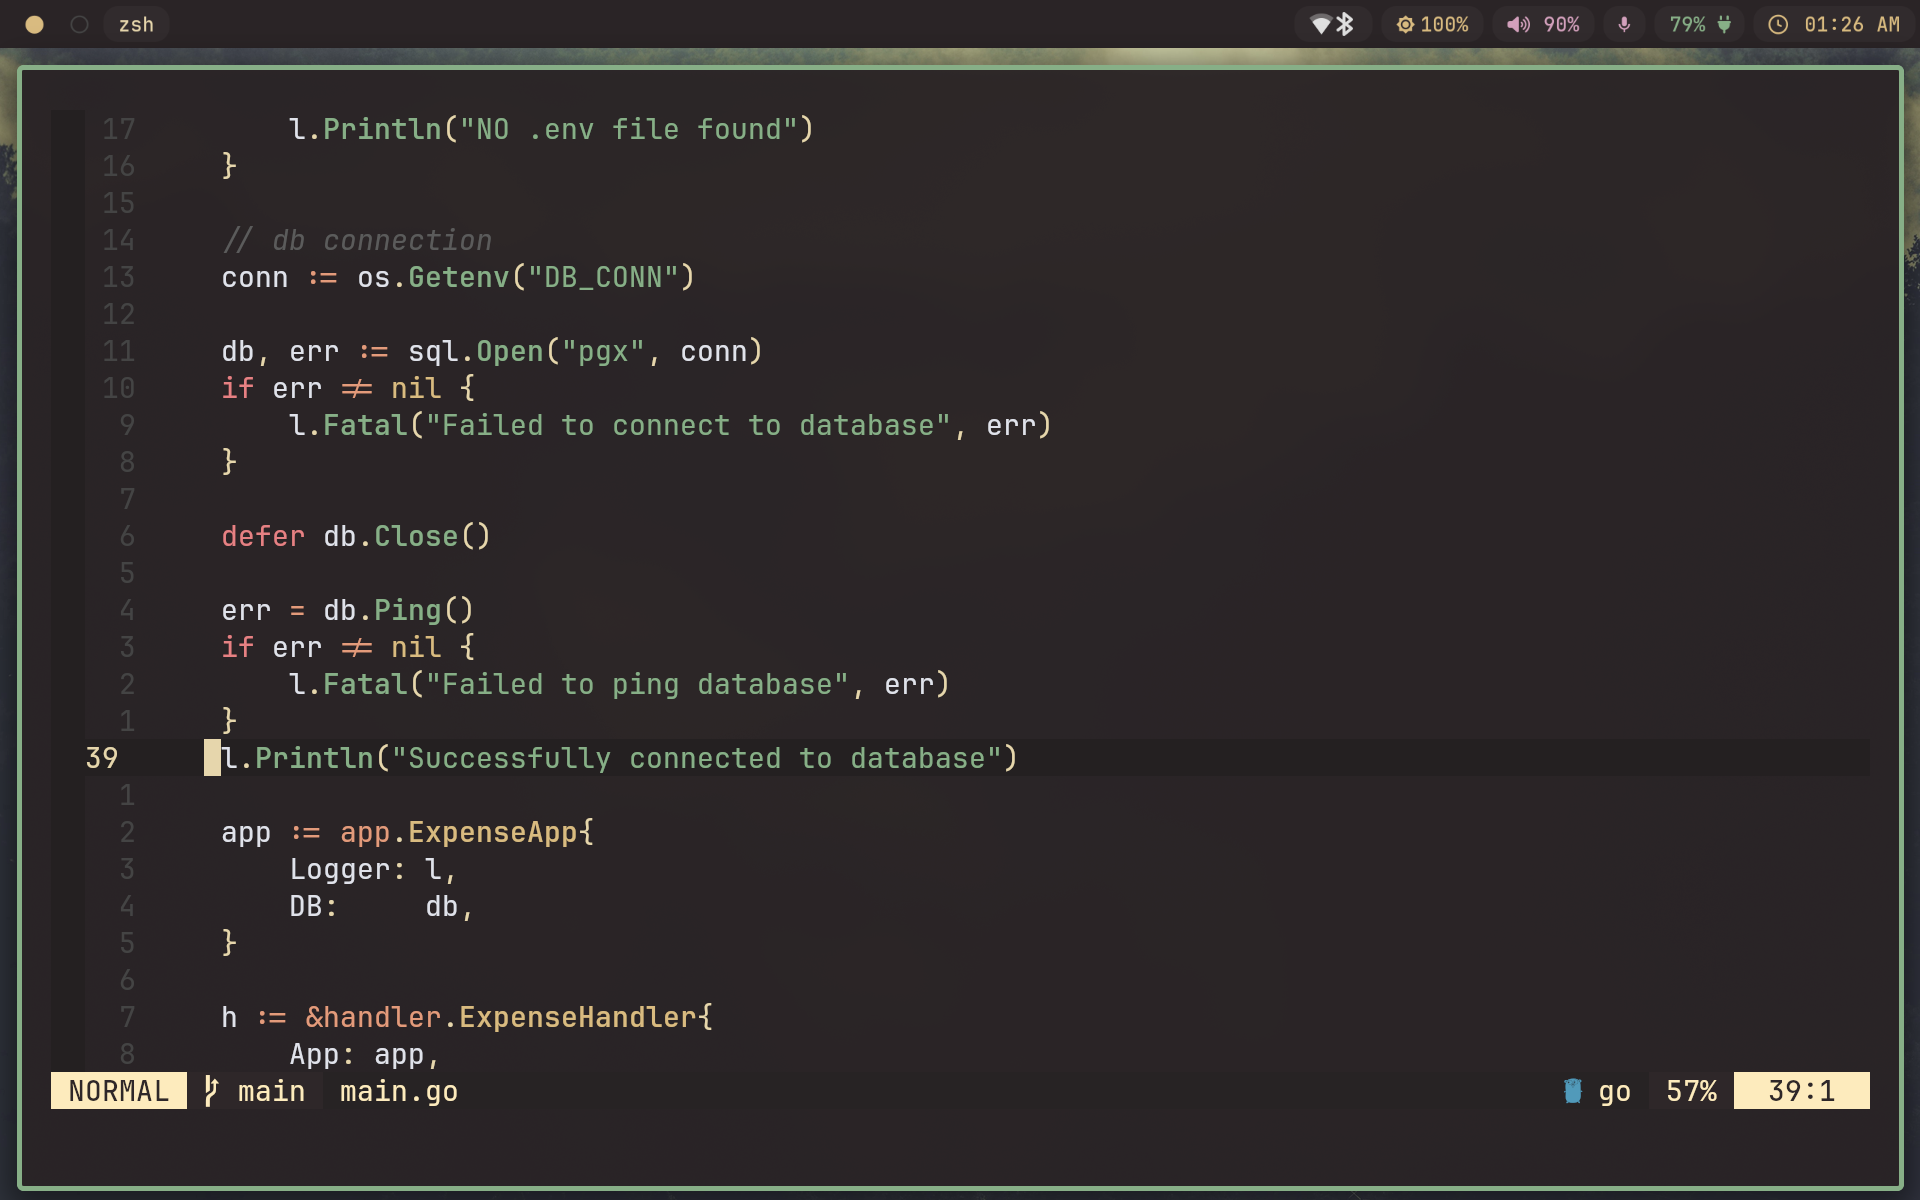
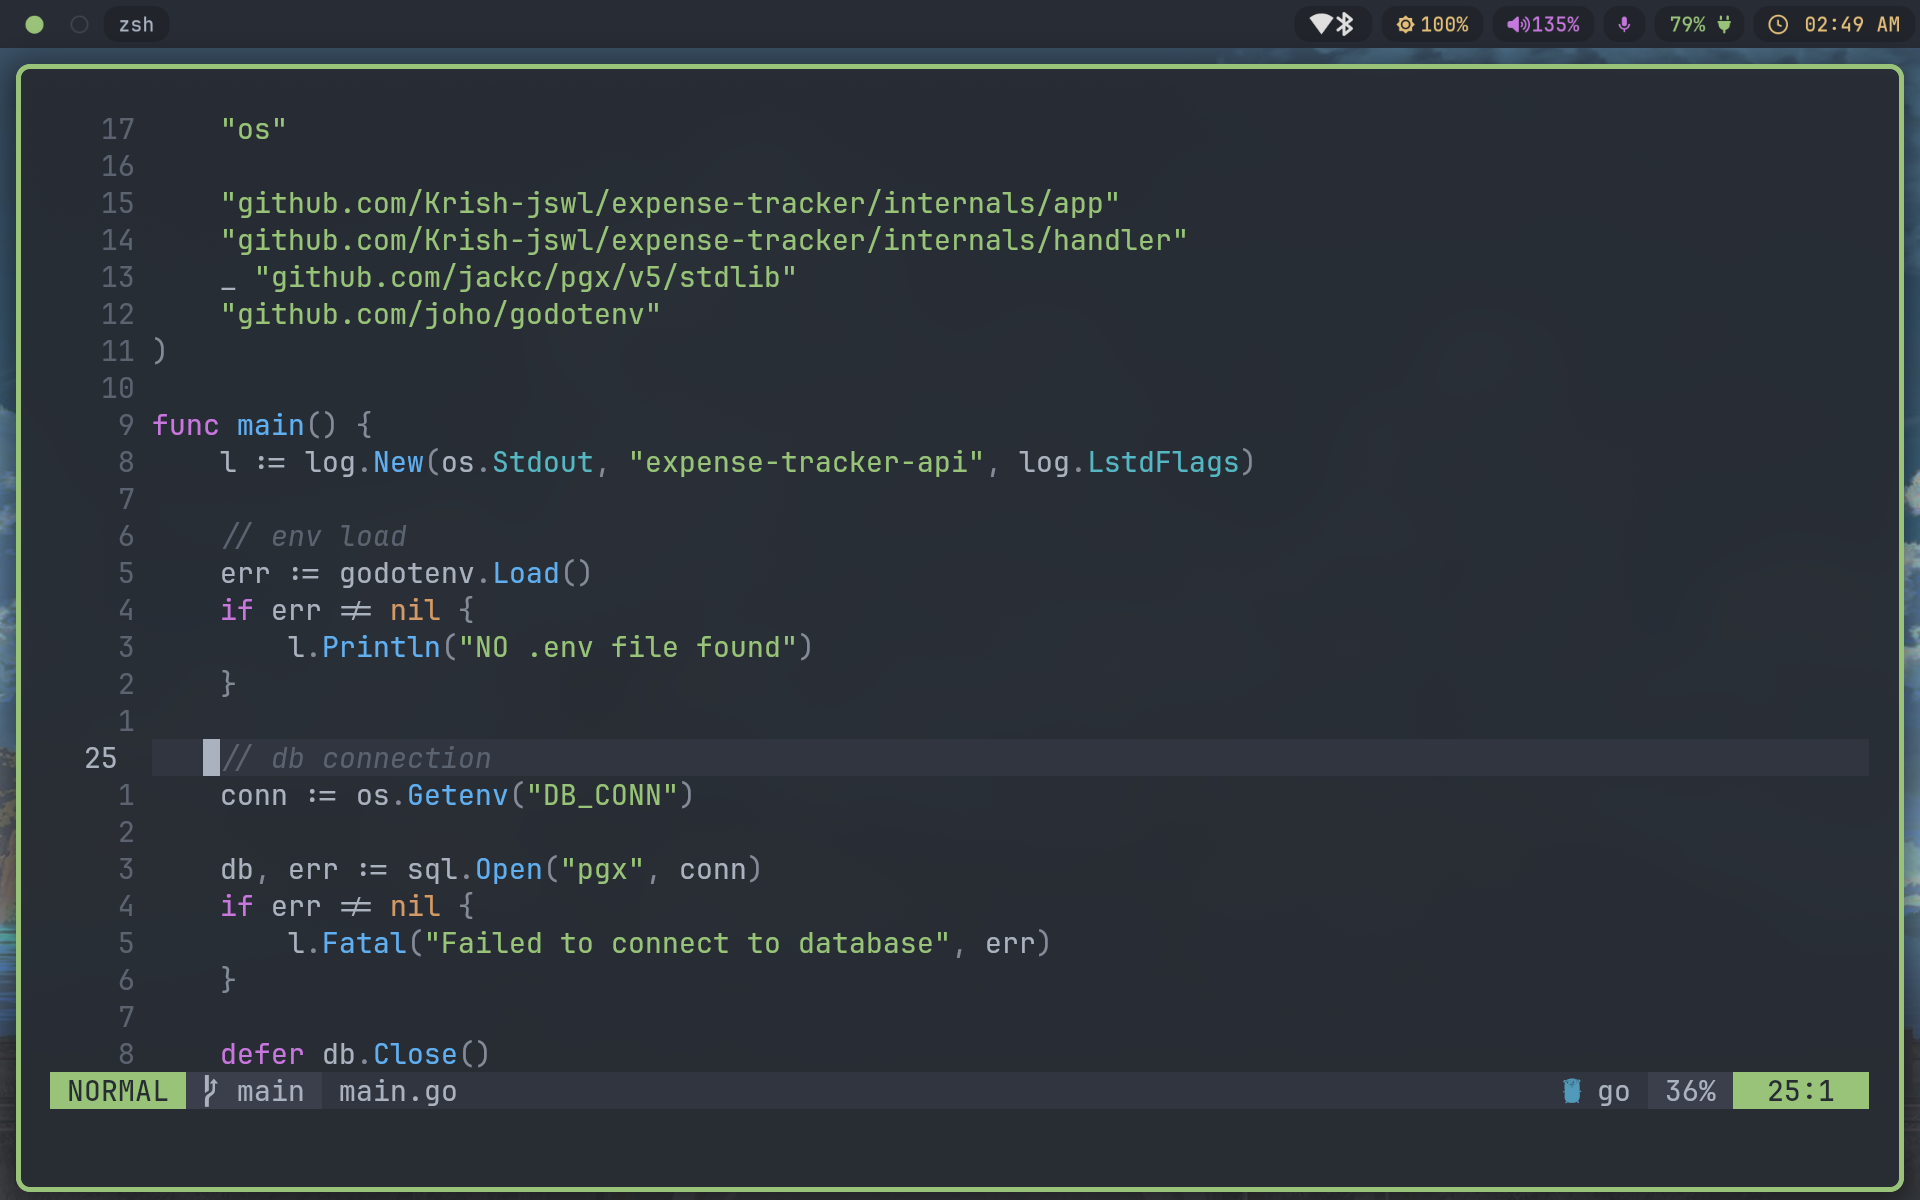
one dark theme

diff --git a/config/waybar/style.css b/config/waybar/style.css
@@ -9,8 +9,8 @@
 }
 
 window#waybar {
-    background: #2A2426;
-    color: #e6d6ac;
+    background: #282C34;
+    color: #ABB2BF;
 }
 
 #workspaces {
@@ -22,7 +22,7 @@ window#waybar {
     margin: 0 3px;
 
     background: transparent;
-    color: #5b5b5b;
+    color: #5C6370;
 
     border-radius: 999px;
     transition: all 0.2s ease;
@@ -30,15 +30,15 @@ window#waybar {
 
 #workspaces button.active,
 #workspaces button.focused {
-    color: #d9bb80;
+    color: #98C379;
 }
 
 #workspaces button.empty {
-    color: #444444;
+    color: #3E4451;
 }
 
 #workspaces button:hover {
-    color: #e6d6ac;
+    color: #61AFEF;
 }
 
 #window,
@@ -53,66 +53,66 @@ window#waybar {
     padding: 3px 10px;
     margin: 4px 3px;
 
-    background: #312b2d;
+    background: #21252B;
     border-radius: 10px;
 }
 
 #window {
-    color: #e6d6ac;
+    color: #ABB2BF;
 }
 
 #clock {
-    color: #d9bb80;
+    color: #E5C07B;
 }
 
 #battery {
-    color: #87af87;
+    color: #98C379;
 }
 
 #battery.warning {
-    color: #e39b7b;
+    color: #D19A66;
 }
 
 #battery.critical {
-    color: #e68183;
+    color: #E06C75;
 }
 
 #battery.charging {
-    color: #87c095;
+    color: #56B6C2;
 }
 
 #network {
-    color: #89beba;
+    color: #61AFEF;
 }
 
 #backlight {
-    color: #d9bb80;
+    color: #E5C07B;
 }
 
 #wireplumber {
-    color: #d3a0bc;
+    color: #C678DD;
 }
 
 #wireplumber.muted {
-    color: #5b5b5b;
+    color: #5C6370;
 }
 
 #wireplumber#mic {
-    color: #e68183;
+    color: #E06C75;
 }
 
 #tray {
-    color: #e6d6ac;
+    color: #ABB2BF;
 }
 
 #custom-tomat {
-    color: #89beba;
+    color: #61AFEF;
 }
 
 tooltip {
-    background: #312b2d;
-    border: 1px solid #444444;
+    background: #21252B;
+    border: 1px solid #3E4451;
     border-radius: 10px;
-    color: #e6d6ac;
+    color: #ABB2BF;
     padding: 8px;
 }
